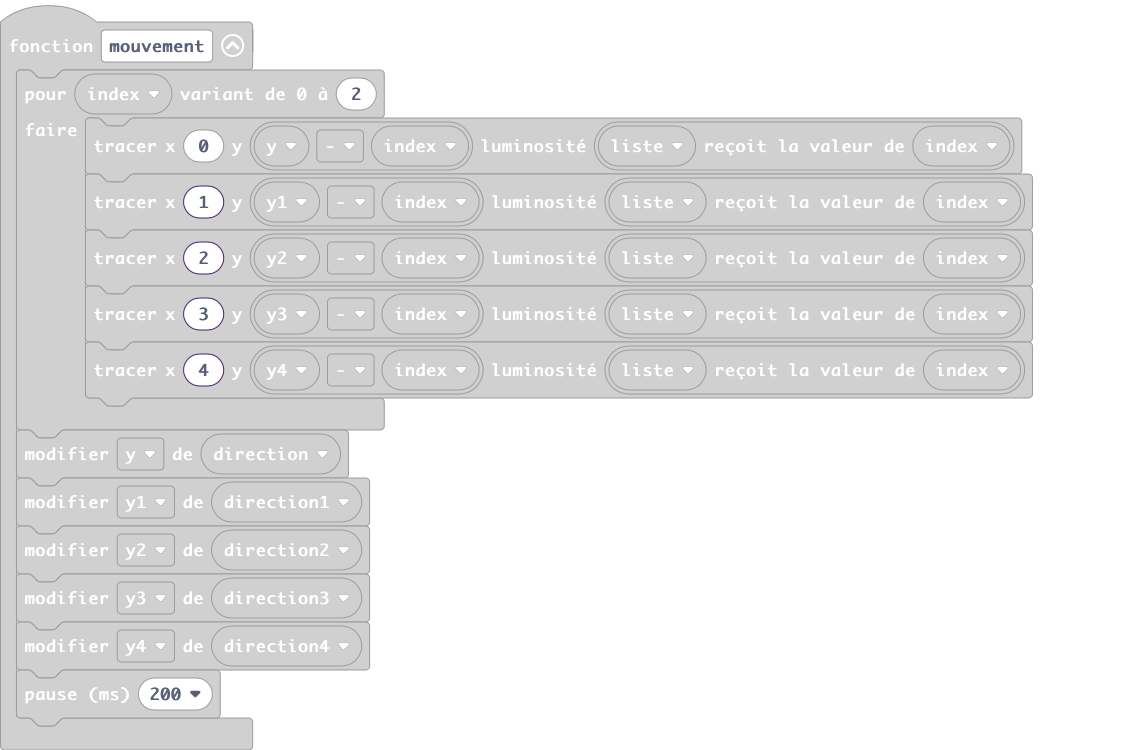
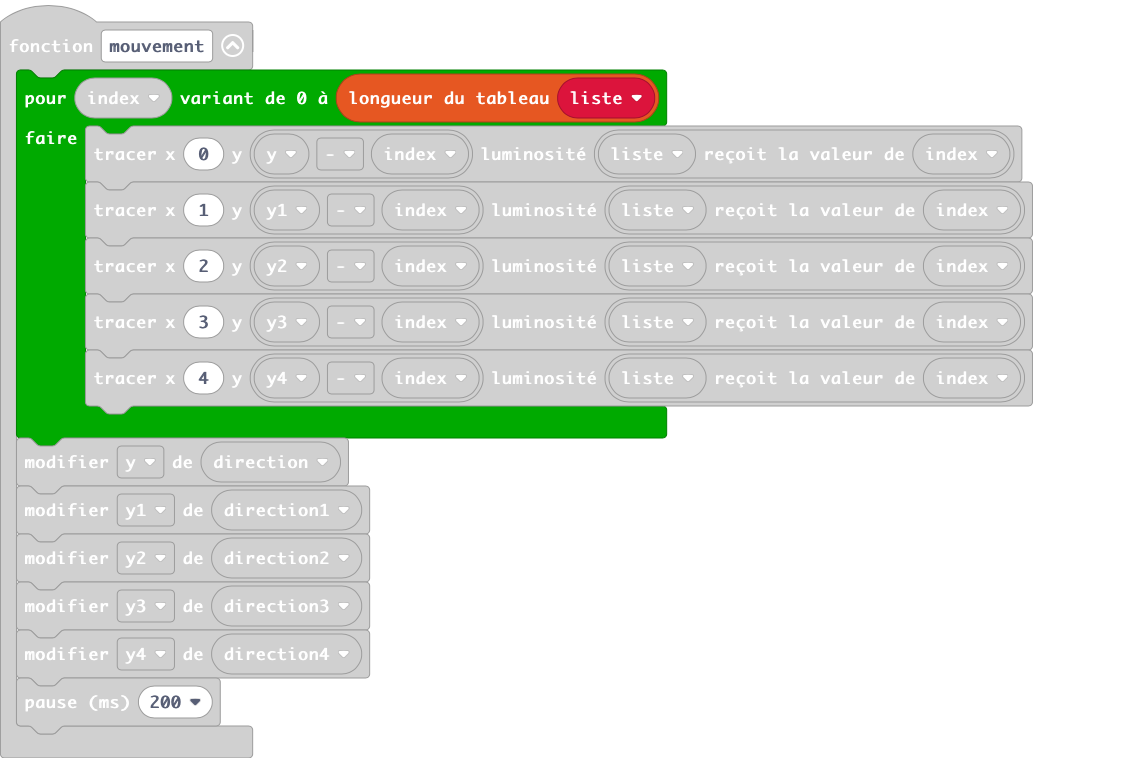
Mise à jour main.blocks, main.ts

Changed region(s): [[0.0, 0.0613, 0.9243, 0.8587], [0.1232, 0.8893, 0.1849, 0.9507]]

diff --git a/main.ts b/main.ts
@@ -26,7 +26,7 @@ function sens () {
     }
 }
 function mouvement () {
-    for (let index = 0; index <= 2; index++) {
+    for (let index = 0; index <= liste.length; index++) {
         led.plotBrightness(0, y - index, liste[index])
         led.plotBrightness(1, y1 - index, liste[index])
         led.plotBrightness(2, y2 - index, liste[index])
